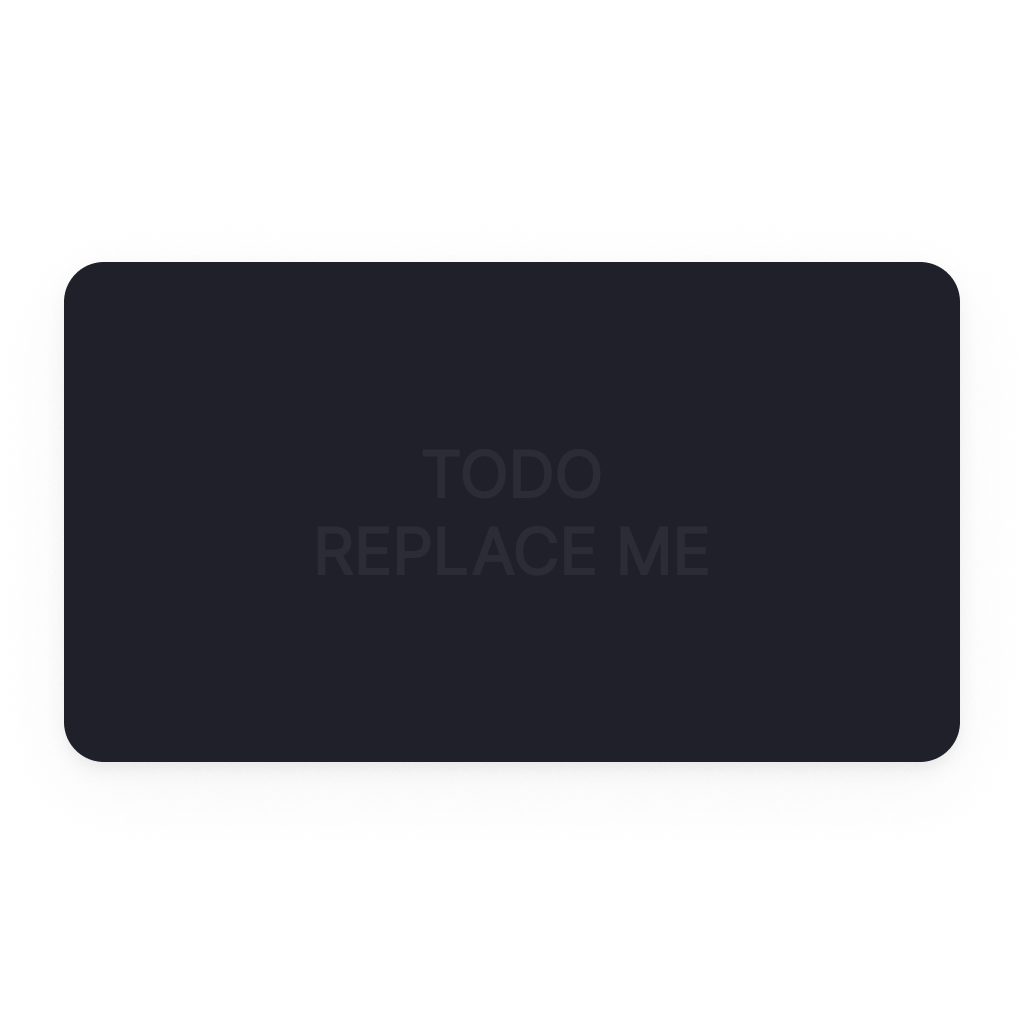
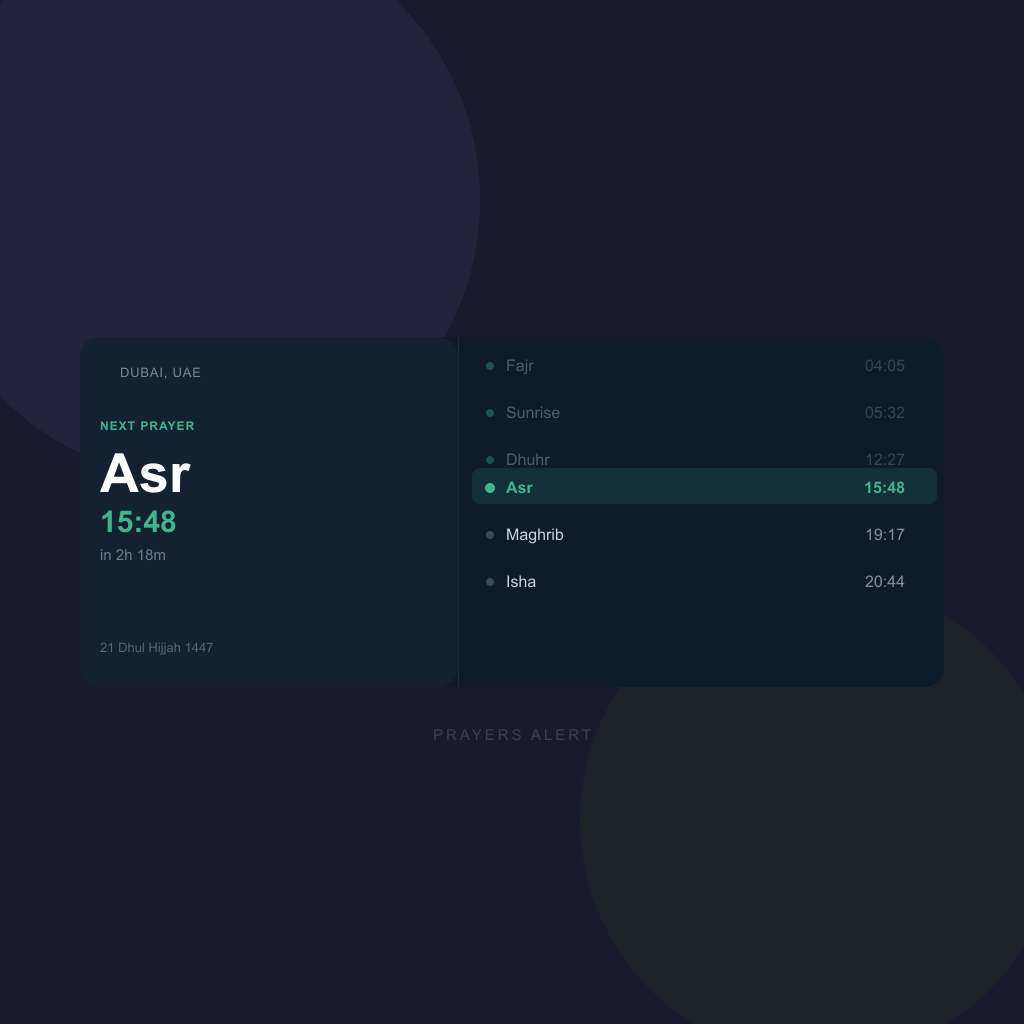
feat: add widget preview images and Homey store README
- preview-dark.png / preview-light.png (1024x1024) for the prayer_times widget
- scripts/generate-previews.js - SVG-to-PNG generator using sharp
- README.txt updated to final Homey App Store copy

diff --git a/scripts/generate-previews.js b/scripts/generate-previews.js
@@ -1,0 +1,120 @@
+'use strict';
+
+const sharp = require('../node_modules/sharp');
+const path  = require('path');
+const fs    = require('fs');
+
+const OUT = path.join(__dirname, '..', 'widgets', 'prayer_times');
+
+const darkSvg = `<svg viewBox="0 0 1024 1024" xmlns="http://www.w3.org/2000/svg" width="1024" height="1024">
+  <rect width="1024" height="1024" fill="#1a1a2e"/>
+  <circle cx="200" cy="200" r="280" fill="#2a2a4a" opacity="0.5"/>
+  <circle cx="820" cy="820" r="240" fill="#1e2d1e" opacity="0.4"/>
+  <rect x="80" y="337" width="864" height="350" rx="20" fill="#0d1b2a"/>
+  <rect x="80" y="337" width="378" height="350" rx="20" fill="rgba(255,255,255,0.03)"/>
+  <rect x="458" y="337" width="1" height="350" fill="rgba(255,255,255,0.07)"/>
+  <text x="120" y="377" font-family="system-ui,Arial,sans-serif" font-size="13" fill="rgba(255,255,255,0.45)" letter-spacing="0.8">DUBAI, UAE</text>
+  <text x="100" y="430" font-family="system-ui,Arial,sans-serif" font-size="12" fill="#3eb68a" font-weight="600" letter-spacing="1">NEXT PRAYER</text>
+  <text x="100" y="492" font-family="system-ui,Arial,sans-serif" font-size="54" fill="#ffffff" font-weight="700">Asr</text>
+  <text x="100" y="532" font-family="system-ui,Arial,sans-serif" font-size="30" fill="#3eb68a" font-weight="600">15:48</text>
+  <text x="100" y="560" font-family="system-ui,Arial,sans-serif" font-size="15" fill="rgba(255,255,255,0.4)">in 2h 18m</text>
+  <text x="100" y="652" font-family="system-ui,Arial,sans-serif" font-size="13" fill="rgba(255,255,255,0.3)">21 Dhul Hijjah 1447</text>
+  <g opacity="0.35">
+    <circle cx="490" cy="366" r="4" fill="#3eb68a"/>
+    <text x="506" y="371" font-family="system-ui,Arial,sans-serif" font-size="16" fill="rgba(255,255,255,0.8)">Fajr</text>
+    <text x="905" y="371" font-family="system-ui,Arial,sans-serif" font-size="16" fill="rgba(255,255,255,0.5)" text-anchor="end">04:05</text>
+  </g>
+  <g opacity="0.35">
+    <circle cx="490" cy="413" r="4" fill="#3eb68a"/>
+    <text x="506" y="418" font-family="system-ui,Arial,sans-serif" font-size="16" fill="rgba(255,255,255,0.8)">Sunrise</text>
+    <text x="905" y="418" font-family="system-ui,Arial,sans-serif" font-size="16" fill="rgba(255,255,255,0.5)" text-anchor="end">05:32</text>
+  </g>
+  <g opacity="0.35">
+    <circle cx="490" cy="460" r="4" fill="#3eb68a"/>
+    <text x="506" y="465" font-family="system-ui,Arial,sans-serif" font-size="16" fill="rgba(255,255,255,0.8)">Dhuhr</text>
+    <text x="905" y="465" font-family="system-ui,Arial,sans-serif" font-size="16" fill="rgba(255,255,255,0.5)" text-anchor="end">12:27</text>
+  </g>
+  <rect x="472" y="468" width="465" height="36" rx="8" fill="rgba(62,182,138,0.13)"/>
+  <circle cx="490" cy="488" r="5" fill="#3eb68a"/>
+  <text x="506" y="493" font-family="system-ui,Arial,sans-serif" font-size="16" fill="#3eb68a" font-weight="700">Asr</text>
+  <text x="905" y="493" font-family="system-ui,Arial,sans-serif" font-size="16" fill="#3eb68a" font-weight="700" text-anchor="end">15:48</text>
+  <circle cx="490" cy="535" r="4" fill="rgba(255,255,255,0.2)"/>
+  <text x="506" y="540" font-family="system-ui,Arial,sans-serif" font-size="16" fill="rgba(255,255,255,0.8)">Maghrib</text>
+  <text x="905" y="540" font-family="system-ui,Arial,sans-serif" font-size="16" fill="rgba(255,255,255,0.5)" text-anchor="end">19:17</text>
+  <circle cx="490" cy="582" r="4" fill="rgba(255,255,255,0.2)"/>
+  <text x="506" y="587" font-family="system-ui,Arial,sans-serif" font-size="16" fill="rgba(255,255,255,0.8)">Isha</text>
+  <text x="905" y="587" font-family="system-ui,Arial,sans-serif" font-size="16" fill="rgba(255,255,255,0.5)" text-anchor="end">20:44</text>
+  <text x="512" y="740" font-family="system-ui,Arial,sans-serif" font-size="15" fill="rgba(255,255,255,0.15)" text-anchor="middle" letter-spacing="3">PRAYERS ALERT</text>
+</svg>`;
+
+const lightSvg = `<svg viewBox="0 0 1024 1024" xmlns="http://www.w3.org/2000/svg" width="1024" height="1024">
+  <rect width="1024" height="1024" fill="#f0f2f5"/>
+  <circle cx="200" cy="200" r="280" fill="#e4e8f0" opacity="0.7"/>
+  <circle cx="820" cy="820" r="240" fill="#e4ede4" opacity="0.6"/>
+  <!-- Widget card — white -->
+  <rect x="80" y="337" width="864" height="350" rx="20" fill="#ffffff"/>
+  <!-- Left panel subtle tint -->
+  <rect x="80" y="337" width="378" height="350" rx="20" fill="rgba(0,0,0,0.025)"/>
+  <!-- Divider -->
+  <rect x="458" y="337" width="1" height="350" fill="rgba(0,0,0,0.08)"/>
+  <!-- Location -->
+  <text x="120" y="377" font-family="system-ui,Arial,sans-serif" font-size="13" fill="rgba(0,0,0,0.4)" letter-spacing="0.8">DUBAI, UAE</text>
+  <!-- Next prayer label -->
+  <text x="100" y="430" font-family="system-ui,Arial,sans-serif" font-size="12" fill="#3eb68a" font-weight="600" letter-spacing="1">NEXT PRAYER</text>
+  <!-- Prayer name -->
+  <text x="100" y="492" font-family="system-ui,Arial,sans-serif" font-size="54" fill="#0d1b2a" font-weight="700">Asr</text>
+  <!-- Prayer time -->
+  <text x="100" y="532" font-family="system-ui,Arial,sans-serif" font-size="30" fill="#3eb68a" font-weight="600">15:48</text>
+  <!-- Countdown -->
+  <text x="100" y="560" font-family="system-ui,Arial,sans-serif" font-size="15" fill="rgba(0,0,0,0.35)">in 2h 18m</text>
+  <!-- Hijri date -->
+  <text x="100" y="652" font-family="system-ui,Arial,sans-serif" font-size="13" fill="rgba(0,0,0,0.28)">21 Dhul Hijjah 1447</text>
+  <!-- Fajr (passed) -->
+  <g opacity="0.38">
+    <circle cx="490" cy="366" r="4" fill="#3eb68a"/>
+    <text x="506" y="371" font-family="system-ui,Arial,sans-serif" font-size="16" fill="rgba(0,0,0,0.7)">Fajr</text>
+    <text x="905" y="371" font-family="system-ui,Arial,sans-serif" font-size="16" fill="rgba(0,0,0,0.45)" text-anchor="end">04:05</text>
+  </g>
+  <!-- Sunrise (passed) -->
+  <g opacity="0.38">
+    <circle cx="490" cy="413" r="4" fill="#3eb68a"/>
+    <text x="506" y="418" font-family="system-ui,Arial,sans-serif" font-size="16" fill="rgba(0,0,0,0.7)">Sunrise</text>
+    <text x="905" y="418" font-family="system-ui,Arial,sans-serif" font-size="16" fill="rgba(0,0,0,0.45)" text-anchor="end">05:32</text>
+  </g>
+  <!-- Dhuhr (passed) -->
+  <g opacity="0.38">
+    <circle cx="490" cy="460" r="4" fill="#3eb68a"/>
+    <text x="506" y="465" font-family="system-ui,Arial,sans-serif" font-size="16" fill="rgba(0,0,0,0.7)">Dhuhr</text>
+    <text x="905" y="465" font-family="system-ui,Arial,sans-serif" font-size="16" fill="rgba(0,0,0,0.45)" text-anchor="end">12:27</text>
+  </g>
+  <!-- Asr (next) highlight -->
+  <rect x="472" y="468" width="465" height="36" rx="8" fill="rgba(62,182,138,0.12)"/>
+  <circle cx="490" cy="488" r="5" fill="#3eb68a"/>
+  <text x="506" y="493" font-family="system-ui,Arial,sans-serif" font-size="16" fill="#3eb68a" font-weight="700">Asr</text>
+  <text x="905" y="493" font-family="system-ui,Arial,sans-serif" font-size="16" fill="#3eb68a" font-weight="700" text-anchor="end">15:48</text>
+  <!-- Maghrib -->
+  <circle cx="490" cy="535" r="4" fill="rgba(0,0,0,0.18)"/>
+  <text x="506" y="540" font-family="system-ui,Arial,sans-serif" font-size="16" fill="rgba(0,0,0,0.7)">Maghrib</text>
+  <text x="905" y="540" font-family="system-ui,Arial,sans-serif" font-size="16" fill="rgba(0,0,0,0.45)" text-anchor="end">19:17</text>
+  <!-- Isha -->
+  <circle cx="490" cy="582" r="4" fill="rgba(0,0,0,0.18)"/>
+  <text x="506" y="587" font-family="system-ui,Arial,sans-serif" font-size="16" fill="rgba(0,0,0,0.7)">Isha</text>
+  <text x="905" y="587" font-family="system-ui,Arial,sans-serif" font-size="16" fill="rgba(0,0,0,0.45)" text-anchor="end">20:44</text>
+  <text x="512" y="740" font-family="system-ui,Arial,sans-serif" font-size="15" fill="rgba(0,0,0,0.12)" text-anchor="middle" letter-spacing="3">PRAYERS ALERT</text>
+</svg>`;
+
+async function generate() {
+  fs.mkdirSync(OUT, { recursive: true });
+
+  await sharp(Buffer.from(darkSvg))
+    .png()
+    .toFile(path.join(OUT, 'preview-dark.png'));
+  console.log('✓ preview-dark.png');
+
+  await sharp(Buffer.from(lightSvg))
+    .png()
+    .toFile(path.join(OUT, 'preview-light.png'));
+  console.log('✓ preview-light.png');
+}
+
+generate().catch(e => { console.error(e); process.exit(1); });
